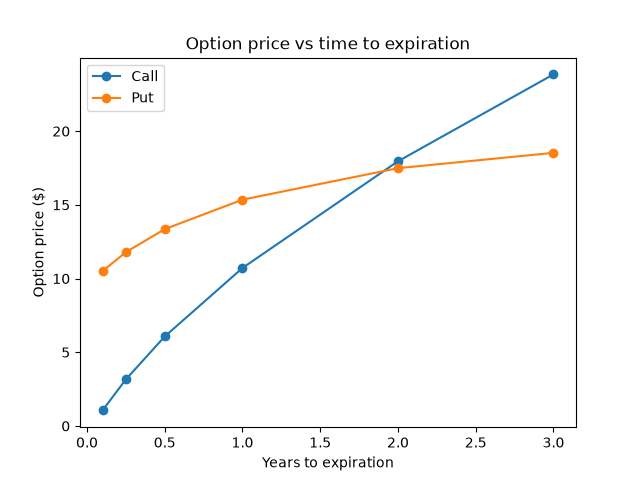
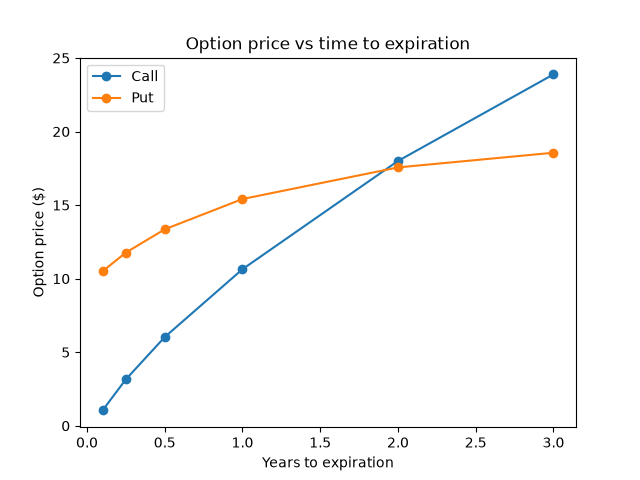
Add files via upload

diff --git a/MC_sensitivity.py b/MC_sensitivity.py
@@ -1,105 +1,60 @@
 import numpy as np
-import yfinance as yf
 import matplotlib.pyplot as plt
-from scipy.stats import norm
 
 np.random.seed(42)
 
-# ---------- Inputs ----------
-ticker = "AAPL"
-K = 345
-T = 76 / 365
-r = 0.038         # 3-month Treasury yield (double-check before posting)
-expiry = "2027-01-15"
+S = 100
+K = 110
+r = 0.05
+num_simulations = 100000
+batch = 10000     # simulate in batches so long expirations don't run out of memory
 
-# ---------- Data ----------
-data = yf.download(ticker, period="1y", progress=False)
-prices = data["Close"].squeeze()
-daily_returns = prices.pct_change().dropna()
+def mc_call_put(annual_sigma, T):
+    days = int(252 * T)
+    daily_sigma = annual_sigma / np.sqrt(252)
+    ending_prices = np.empty(num_simulations)
+    for start in range(0, num_simulations, batch):
+        returns = np.random.normal(r / 252, daily_sigma, size=(batch, days))
+        ending_prices[start:start + batch] = S * np.prod(1 + returns, axis=1)
+    discount = (1 + r) ** T
+    call = np.mean(np.maximum(ending_prices - K, 0)) / discount
+    put = np.mean(np.maximum(K - ending_prices, 0)) / discount
+    return call, put
 
-S = float(prices.iloc[-1])
-daily_sigma = float(daily_returns.std())
-annual_sigma = daily_sigma * np.sqrt(252)
-days = int(252 * T)
+# ---------- Price vs volatility (1 year to expiration) ----------
+vols = [0.1, 0.2, 0.3, 0.4, 0.5, 0.6]
+vol_calls, vol_puts = [], []
+for v in vols:
+    call, put = mc_call_put(v, 1)
+    vol_calls.append(call)
+    vol_puts.append(put)
+    print("Volatility", v, "-> call:", round(call, 2), "put:", round(put, 2))
 
-# ---------- Pricing (100,000 simulations) ----------
-all_returns = np.random.normal(r / 252, daily_sigma, size=(100000, days))
-ending_all = S * np.prod(1 + all_returns, axis=1)
-mc_call = np.mean(np.maximum(ending_all - K, 0)) / (1 + r) ** T
-prob_above = np.mean(ending_all > K)
+plt.figure()
+plt.plot(vols, vol_calls, marker="o", label="Call")
+plt.plot(vols, vol_puts, marker="o", label="Put")
+plt.title("Option price vs volatility")
+plt.xlabel("Annual volatility")
+plt.ylabel("Option price ($)")
+plt.legend()
+plt.savefig("volatility.png")
 
-d1 = (np.log(S / K) + (r + annual_sigma**2 / 2) * T) / (annual_sigma * np.sqrt(T))
-d2 = d1 - annual_sigma * np.sqrt(T)
-bs_call = S * norm.cdf(d1) - K * np.exp(-r * T) * norm.cdf(d2)
+# ---------- Price vs time (daily volatility 2%) ----------
+annual_sigma = 0.02 * np.sqrt(252)
+times = [0.1, 0.25, 0.5, 1, 2, 3]
+time_calls, time_puts = [], []
+for T in times:
+    call, put = mc_call_put(annual_sigma, T)
+    time_calls.append(call)
+    time_puts.append(put)
+    print("Years", T, "-> call:", round(call, 2), "put:", round(put, 2))
 
-# ---------- Paths for the chart ----------
-def build_paths(n):
-    p = S * np.cumprod(1 + all_returns[:n], axis=1)
-    return np.hstack([np.full((n, 1), S), p])
-
-paths = build_paths(200)       # lines shown on the chart
-band = build_paths(5000)       # used for the average and the 90% range
-x = np.arange(days + 1)
-above = paths[:, -1] > K
-
-# ---------- Colors ----------
-c_above = "#2a9d8f"
-c_below = "#b8bfc9"
-c_strike = "#e63946"
-c_avg = "#1d3557"
-c_band = "#457b9d"
-
-# ---------- Chart ----------
-fig, (ax, axh) = plt.subplots(
-    1, 2, figsize=(13, 6.5), sharey=True,
-    gridspec_kw={"width_ratios": [4, 1], "wspace": 0.03}
-)
-
-for p, is_above in zip(paths, above):
-    ax.plot(x, p, color=c_above if is_above else c_below, linewidth=0.8, alpha=0.45)
-
-low = np.percentile(band, 5, axis=0)
-high = np.percentile(band, 95, axis=0)
-ax.fill_between(x, low, high, color=c_band, alpha=0.12, label="90% of outcomes")
-ax.plot(x, band.mean(axis=0), color=c_avg, linewidth=2.5, label="Average path")
-
-ax.axhline(K, color=c_strike, linestyle="-", linewidth=1.8, label=f"Strike ${K}")
-ax.text(days, K, f"  Strike ${K}", color=c_strike, va="center", fontsize=9, fontweight="bold")
-
-stats = (
-    f"Spot ${S:.2f}  |  Strike ${K}\n"
-    f"Volatility (hist.) {annual_sigma:.1%}  |  {days} trading days\n"
-    f"Monte Carlo price ${mc_call:.2f}  |  Black-Scholes ${bs_call:.2f}\n"
-    f"Chance of finishing above strike: {prob_above:.0%}"
-)
-ax.text(0.02, 0.97, stats, transform=ax.transAxes, va="top", fontsize=9.5,
-        bbox=dict(boxstyle="round,pad=0.6", facecolor="white", edgecolor="#d0d4da"))
-
-ax.set_xlabel("Trading days to expiration")
-ax.set_ylabel("Price ($)")
-ax.legend(loc="lower left", frameon=True, fontsize=9)
-for side in ["top", "right"]:
-    ax.spines[side].set_visible(False)
-ax.grid(alpha=0.25)
-
-axh.hist(ending_all[ending_all > K], bins=60, orientation="horizontal",
-         color=c_above, alpha=0.7)
-axh.hist(ending_all[ending_all <= K], bins=60, orientation="horizontal",
-         color=c_below, alpha=0.9)
-axh.axhline(K, color=c_strike, linestyle="-", linewidth=1.8)
-axh.set_xlabel("Ending prices")
-axh.set_xticks([])
-for side in ["top", "right", "bottom"]:
-    axh.spines[side].set_visible(False)
-
-ax.set_ylim(np.percentile(ending_all, 0.5) * 0.95, np.percentile(ending_all, 99.5) * 1.03)
-
-fig.suptitle(f"{ticker} call option: Monte Carlo simulation vs Black-Scholes",
-             fontsize=15, fontweight="bold", x=0.06, ha="left")
-fig.text(0.06, 0.01,
-         "Model: 100,000 Monte Carlo simulations (200 shown) under risk-neutral pricing. "
-         "Data: Yahoo Finance.",
-         fontsize=8, color="gray")
-
-plt.savefig("aapl_paths.png", dpi=220, bbox_inches="tight")
+plt.figure()
+plt.plot(times, time_calls, marker="o", label="Call")
+plt.plot(times, time_puts, marker="o", label="Put")
+plt.title("Option price vs time to expiration")
+plt.xlabel("Years to expiration")
+plt.ylabel("Option price ($)")
+plt.legend()
+plt.savefig("time.png")
 plt.show()

diff --git a/MC_realdata.py b/MC_realdata.py
@@ -1,6 +1,8 @@
 import numpy as np
 import yfinance as yf
 
+np.random.seed(42)
+
 ticker = "AAPL"
 data = yf.download(ticker, period="1y")
 
@@ -25,7 +27,9 @@ d1 = (np.log(S / K) + (r + annual_sigma**2 / 2) * T) / (annual_sigma * np.sqrt(T
 d2 = d1 - annual_sigma * np.sqrt(T)
 bs_call = S * norm.cdf(d1) - K * np.exp(-r * T) * norm.cdf(d2)
 
-returns = np.random.normal(r / 252, daily_sigma, size=(100000, int(252 * T)))
+steps = int(252 * T)   # trading days until expiration
+dt = T / steps         # length of each step, so the simulation covers exactly T years
+returns = np.random.normal(r * dt, annual_sigma * np.sqrt(dt), size=(100000, steps))
 ending_prices = S * np.prod(1 + returns, axis=1)
 mc_call = np.mean(np.maximum(ending_prices - K, 0)) / (1 + r) ** T
 

diff --git a/README.md b/README.md
@@ -1,4 +1,3 @@
-[README.md().md](https://github.com/user-attachments/files/34244826/README.md.md)
 # Monte Carlo Option Pricing vs Black-Scholes
 
 A Python project that prices European call and put options two independent ways, by **Monte Carlo simulation** and by the **Black-Scholes formula**, shows that the two converge, and then applies the model to a **real Apple (AAPL) option** to back out the market's implied volatility.
@@ -15,11 +14,11 @@ A Python project that prices European call and put options two independent ways,
 | Historical volatility (1 year) | 24.1% |
 | Risk-free rate (3-month Treasury) | 3.8% |
 | Black-Scholes price | $16.28 |
-| Monte Carlo price (100,000 simulations) | $16.29 |
+| Monte Carlo price (100,000 simulations) | $16.19 |
 | Market price (bid/ask midpoint) | $17.80 |
 | **Implied volatility** | **26.6%** |
 
-**Takeaway:** Monte Carlo and Black-Scholes agree to within a cent. The market prices the option higher than the model because it expects Apple to be about **2.5 percentage points more volatile** over the next few months than it was over the past year.
+**Takeaway:** Monte Carlo and Black-Scholes agree to within about 10 cents, which is the normal random noise of 100,000 simulations. The market prices the option higher than the model because it expects Apple to be about **2.5 percentage points more volatile** over the next few months than it was over the past year.
 
 > Note: results depend on the date the data is downloaded and on the risk-free rate used.
 
